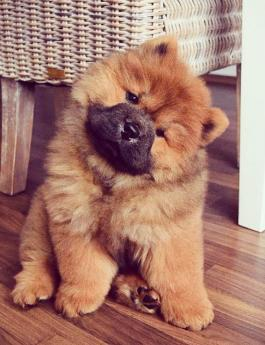
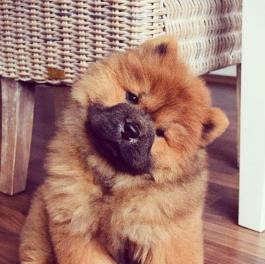
fixade bilden

diff --git a/index.html b/index.html
@@ -12,18 +12,16 @@
             <h1>Doglopedia</h1>
             <h3>Där alla är en <i>Good Boy</i></h3>
         </div>
-        <table>
-            <tr>
-            <td><a href="#">Hem</a></td>
-            <td><a href="#">Våra hundar</a></td>
-            <td><a href="#">Skötsel</a></td>
-            <td><a href="#">Om oss</a></td>
-            </tr>
-        </table>
+        <nav>
+            <a href="#">Hem</a>
+            <a href="#">Våra hundar</a>
+            <a href="#">Skötsel</a>
+            <a href="#">Om oss</a>
+        </nav>
         <hr>
         
         <h1 id="namn">Chow chow</h1>
-        <div class="image"></div>
+        <img class="image" src="img/hund.jpg" alt="Hund">
 
         <h3>Historik</h3>
         <p>I Kina har hundrasen chow chow funnits i tusentals år. Rasen var främst var mans hund och användes till jakt, drag, klövjning och vakt. Den användes också för att vakta templen i Kina. Ordet chow är pidginengelska och betyder mat och syftar på att en chow chow ibland även hamnade på matbordet. De första exemplaren kom till Europa redan på 1700-talet. I slutet av 1800-talet inleddes avelsarbetet i England och 1895 skrevs den första rasstandarden, som i stort sätt gäller än idag. 1920 registrerades den första individen Sverige.</p>

diff --git a/main.css b/main.css
@@ -1,5 +1,12 @@
-image {
-    background-image: url(img/hund.jpg);
+img {
+    border-width: 1px;
+    border-color: black;
+    border-style: groove;
+    border-radius: 130px;
+    display: block;
+    margin-left: auto;
+    margin-right: auto;
+
 }
 
 .container {
@@ -13,12 +20,13 @@ image {
     background-color: rgb(245, 245, 220);
     color: rgb(148, 128, 90);
     padding: 10px;
+    margin-bottom: 10px;
 }
 
-table {
-    margin: auto;
-    padding-top: 10px;
-    padding-bottom: 5px;
+nav {
+    display: inline-block;
+    margin-left: 140px;
+    margin-right: 140px;
 }
 
 a {
